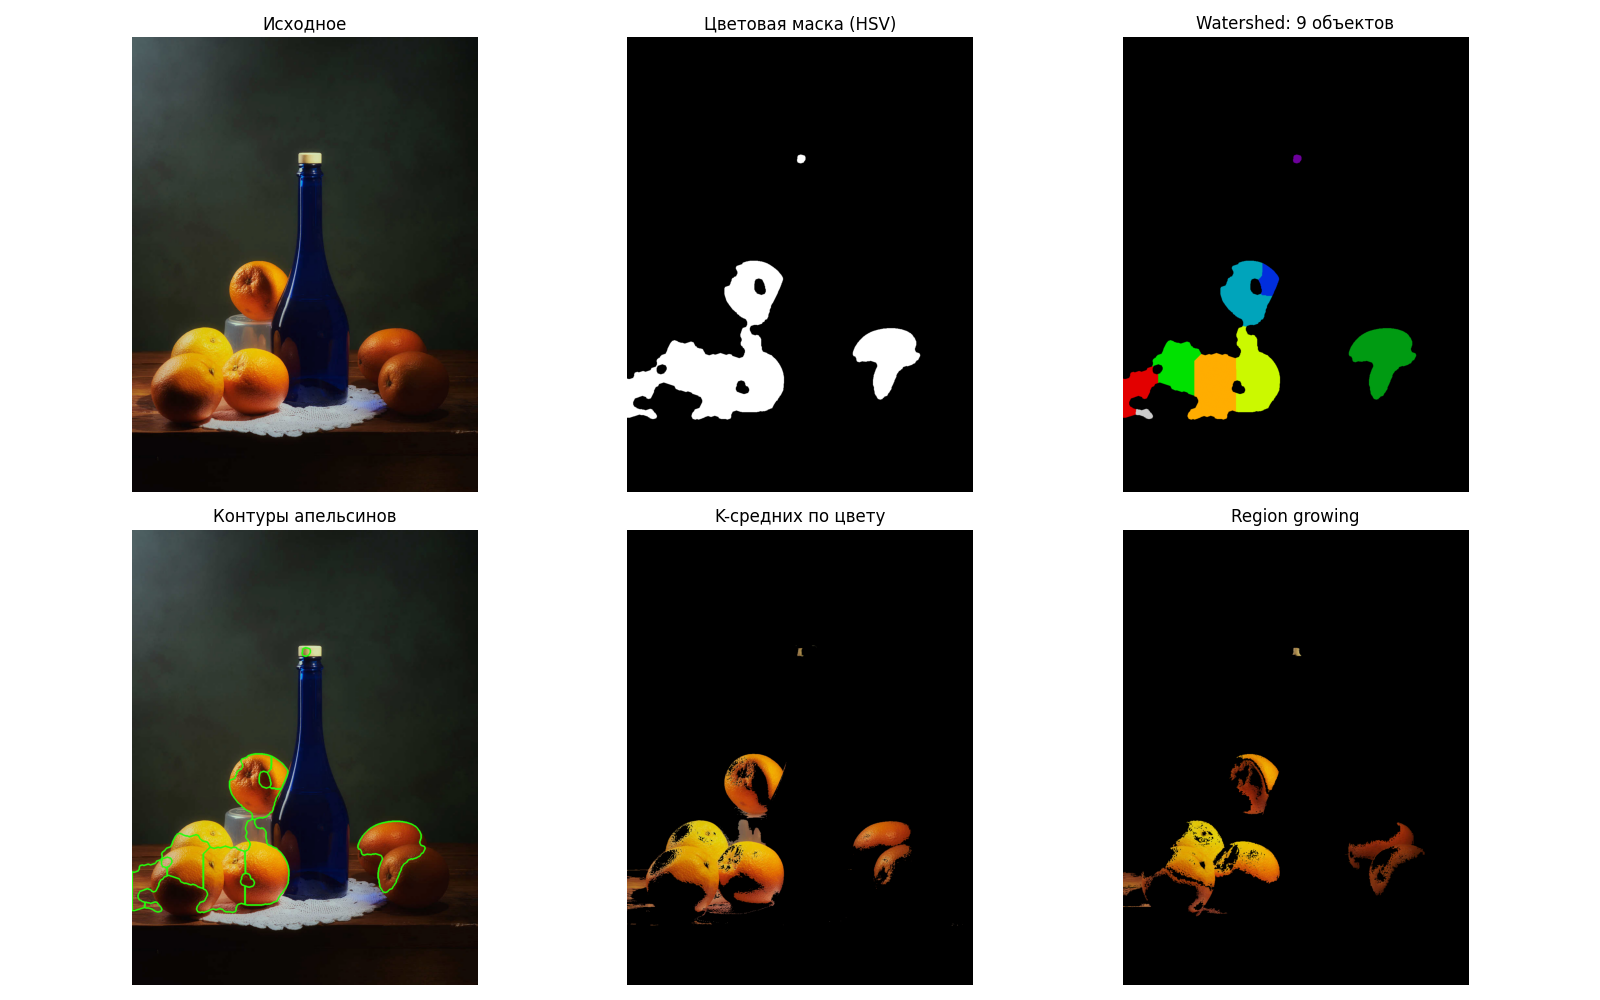
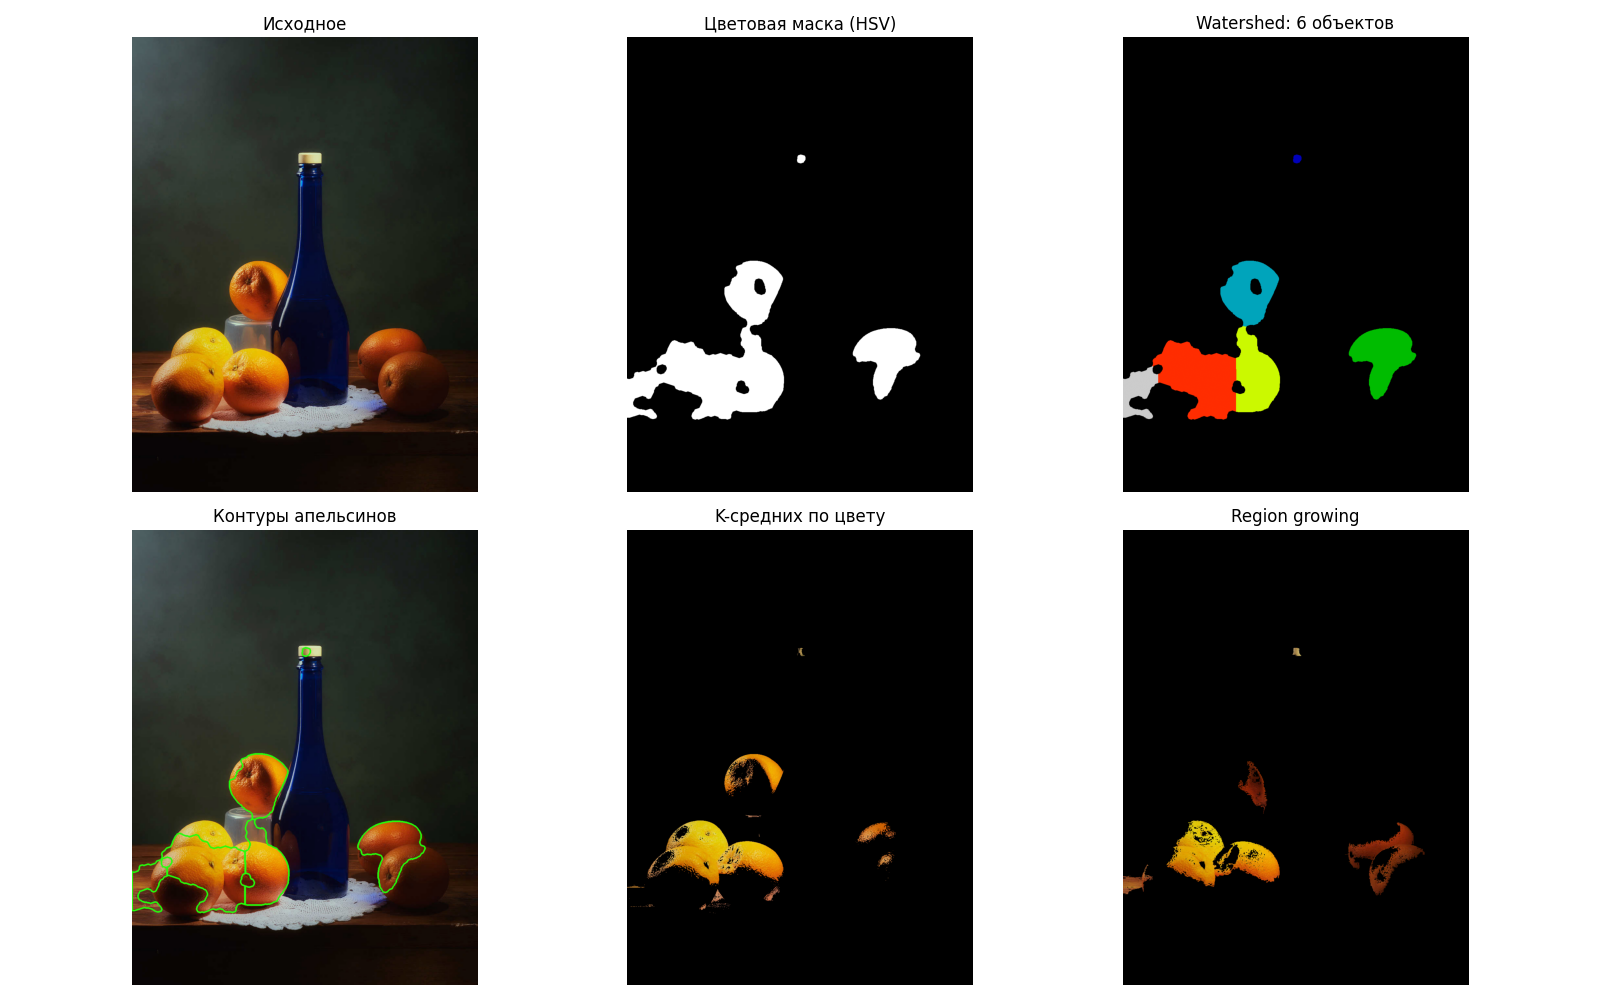
lab6

diff --git a/lab6/main.py b/lab6/main.py
@@ -34,7 +34,7 @@ def orange_mask(hsv: np.ndarray) -> np.ndarray:
 def segment_watershed(image_rgb: np.ndarray, mask: np.ndarray):
     """Разделяет слипшиеся объекты маски на отдельные через watershed."""
     distance = ndimage.distance_transform_edt(mask)
-    coords = peak_local_max(distance, min_distance=40, labels=mask)
+    coords = peak_local_max(distance, min_distance=70, labels=mask)
     peaks = np.zeros_like(distance, dtype=bool)
     peaks[tuple(coords.T)] = True
     markers = ndimage.label(peaks, structure=np.ones((3, 3)))[0]
@@ -55,13 +55,17 @@ def segment_watershed(image_rgb: np.ndarray, mask: np.ndarray):
     return labels, contoured, count
 
 
-def segment_kmeans(image_rgb: np.ndarray, k: int = 4):
-    """Кластеризация пикселей по цвету и выбор оранжевого кластера."""
+def segment_kmeans(image_rgb: np.ndarray, k: int = 6):
+    """Кластеризация пикселей по цвету и выбор оранжевого кластера.
+
+    Чем больше кластеров, тем лучше яркие апельсины отделяются от тёплого
+    по цвету деревянного стола.
+    """
     pixels = np.float32(image_rgb.reshape(-1, 3))
     kmeans = KMeans(n_clusters=k, random_state=0, n_init=4).fit(pixels)
     centers = kmeans.cluster_centers_
-    # Оранжевый: высокий R, средний G, низкий B.
-    scores = centers[:, 0] - centers[:, 2]
+    # Оранжевый: высокий R, низкий B и достаточно яркий (стол темнее).
+    scores = (centers[:, 0] - centers[:, 2]) + 0.5 * centers[:, 0]
     orange_cluster = int(np.argmax(scores))
     mask = (kmeans.labels_ == orange_cluster).reshape(image_rgb.shape[:2])
     result = image_rgb.copy()